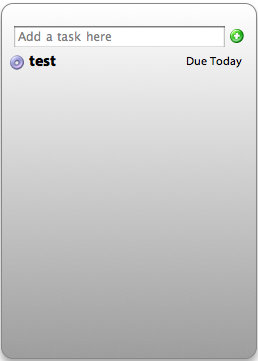
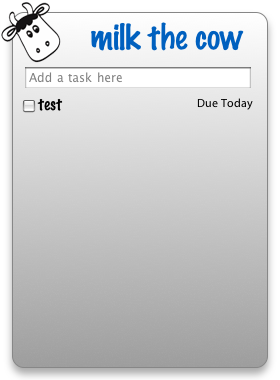
version 0.1 release

Changed region(s): [[0.0, 0.0, 1.0, 1.0], [0.6822, 0.2438, 0.8992, 0.3047]]

diff --git a/Milk the Cow.wdgt/milkthecow.js b/Milk the Cow.wdgt/milkthecow.js
@@ -51,9 +51,7 @@ function load()
 	//setup Apple buttons
 	new AppleGlassButton(document.getElementById("done"), "Done", showFront);
 	new AppleInfoButton(document.getElementById("info"), document.getElementById("front"), "white", "black", showBack);
-	new AppleButton(document.getElementById("auth_button"),"Authentication",20,"Images/button_left.png","Images/button_left_clicked.png",5,"Images/button_middle.png","Images/button_middle_clicked.png","Images/button_right.png","Images/button_right_clicked.png",5,OpenAuthUrl);
 	new AppleButton(document.getElementById("tasks_button"),"Refresh",20,"Images/button_left.png","Images/button_left_clicked.png",5,"Images/button_middle.png","Images/button_middle_clicked.png","Images/button_right.png","Images/button_right_clicked.png",5,printTasks);
-	new AppleButton(document.getElementById("add_button"),"Add \"test\"",20,"Images/button_left.png","Images/button_left_clicked.png",5,"Images/button_middle.png","Images/button_middle_clicked.png","Images/button_right.png","Images/button_right_clicked.png",5,rtmAddTest);
 	new AppleButton(document.getElementById("del_button"),"Delete Last",20,"Images/button_left.png","Images/button_left_clicked.png",5,"Images/button_middle.png","Images/button_middle_clicked.png","Images/button_right.png","Images/button_right_clicked.png",5,rtmDeleteLast);
 	
 	//startRefreshTimer();
@@ -105,6 +103,7 @@ function hide()
 function show()
 {
 	//startRefreshTimer();
+	printTasks();
 }
 
 //
@@ -227,10 +226,6 @@ function rtmAuthURL (perms) {
     return url;
 }
 
-function rtmAddTest(){
-    return rtmAdd("test");
-}
-
 //add task to rtm
 function rtmAdd (name){
 	var res = rtmCall({method:"rtm.tasks.add",name:name,parse:"1"}).rsp;
@@ -302,7 +297,15 @@ function createTimeline (){
 
 function printTasks (){
     tasks = [];
-    if (checkToken()){
+    if (!checkToken()){
+		//show auth link
+		$("#authDiv").show();
+		$("#listDiv").hide();
+		$("#authDiv").html("<span id=\"authurl\" onclick=\"widget.openURL('"+rtmAuthURL("delete")+"')\">Click Here</span> to authentication.");
+	}else{
+		//get task list
+		$("#authDiv").hide();
+		$("#listDiv").show();
 		var temptasks = rtmCall({method:"rtm.tasks.getList",filter:"status:incomplete"});
 		temptasks = temptasks.rsp.tasks;
 		if (typeof(temptasks.list.length)=="undefined"){
@@ -328,7 +331,7 @@ function printTasks (){
         var date = tasks[t].date.toString().split(" ");
         var sdate = "Due "+date[1]+" "+date[2];
         if (tasks[t].date.getTime()==2147483647000) sdate = ""; //no due date
-		$("#taskList").append("<li><a class=\"checkimg\" href=\"javascript:rtmComplete("+t+")\"></a>"+tasks[t].name+"<span class=\"duedate\">"+sdate+"</span></li>");
+		$("#taskList").append("<li><input type=\"checkbox\" onclick=\"rtmComplete("+t+")\"/>"+tasks[t].name+"<span class=\"duedate\">"+sdate+"</span></li>");
 	}
 	
 	if (lastTrans==null) $("#undo").hide();

diff --git a/Milk the Cow.wdgt/milkthecow.css b/Milk the Cow.wdgt/milkthecow.css
@@ -16,6 +16,33 @@ body {
 	background-repeat: no-repeat;
 }
 
+#me {
+	position: absolute;
+    text-align: center;
+    color: rgb(255, 255, 255);
+    font-family: HelveticaNeue-Bold;
+    text-shadow: rgb(25, 25, 25) 3px 3px 2px;
+    width: 150px;
+    font-size: 9pt;
+    height: 19px;
+    left: 64px;
+    top: 213px;
+}
+
+#email {
+    position: absolute;
+    text-align: center;
+    font-family: HelveticaNeue-Bold;
+    text-shadow: rgb(0, 0, 128) 2px 2px 2px;
+    cursor: pointer;
+    font-size: 9pt;
+    width: 125px;
+    color: rgb(51, 123, 255);
+    height: 17px;
+    left: 30px;
+    top: 233px;
+}
+
 #info {
     position: absolute;
     right: 15px;
@@ -32,22 +59,6 @@ body {
     margin-top: auto;
 }
 
-#auth_button {
-    /*font-family: HelveticaNeue-Bold;*/
-	font-family: "Myriad Pro";
-	font-weight: bold;
-    font-size: 12px;
-    text-align: center;
-    position: absolute;
-    right: auto;
-    margin-top: 0px;
-    width: 93px;
-    left: 50px;
-    top: 310px;
-    bottom: 77px;
-    height: auto;
-}
-
 #tasks_button {
 	font-family: "Myriad Pro";
 	font-weight: bold;
@@ -60,21 +71,6 @@ body {
     left: 50px;
     top: 340px;
     bottom: 22px;
-    height: auto;
-}
-
-#add_button {
-	font-family: "Myriad Pro";
-	font-weight: bold;
-    font-size: 12px;
-    text-align: center;
-    position: absolute;
-    right: auto;
-    margin-top: 0px;
-    width: 93px;
-    left: 150px;
-    top: 310px;
-    bottom: 77px;
     height: auto;
 }
 
@@ -99,6 +95,27 @@ body {
     top: 80px;
     text-align: left;
 	left: 20px;
+	display: block;
+}
+
+#authDiv {
+	font-family: "Myriad Pro";
+	font-weight: bold;
+	font-size: 14px;
+	position: absolute;
+	top: 97px;
+	text-align: left;
+	left: 30px;
+	display: none;
+}
+
+#authurl {
+	color: blue;
+	text-decoration: underline;
+}
+
+#authurl:hover {
+	cursor: pointer;
 }
 
 #taskList {
@@ -127,15 +144,6 @@ body {
 	clear: right;
 	font-size: 12px;
 	font-weight: normal;
-}
-
-a.checkimg {
-	padding-left: 20px;
-	background-image: url(Images/cd.png);
-	background-repeat: no-repeat;
-}
-a.checkimg:hover {
-	background-image: url(Images/accept.png);
 }
 
 #undo {
@@ -173,8 +181,4 @@ a.checkimg:hover {
 	position: absolute;
 	left: 90px;
 	top: 0px;
-}
-
-#cowimg {
-	
 }

diff --git a/Milk the Cow.wdgt/milkthecow.html b/Milk the Cow.wdgt/milkthecow.html
@@ -21,19 +21,22 @@
 			<img alt="loading" src="Images/ajax-loader.gif" />
 		</div>
 		<input id='taskinput' placeholder='Add a task here' onkeypress='inputKeyPress(event);'/>
+		<div id="authDiv">
+			<span id="authurl">Click Here</span> to authentication.
+		</div>
         <div id="listDiv">
             <ul id="taskList">
-				<li><a class="checkimg"></a>test<span class="duedate">Due Today</span></li>
+				<li><input type="checkbox" />test<span class="duedate">Due Today</span></li>
             </ul>
         </div>
-        <div id="auth_button"></div>
         <div id="tasks_button"></div>
-		<div id="add_button"></div>
 		<div id="del_button"></div>
 		<div><a id="undo" href="javascript:rtmUndo()"></a></div>
 		<div id="info"></div>
     </div>
     <div id="back">
+		<div id="me">RTM widget by Rich Hong</div>
+		<div id="email" onclick="widget.openURL('http://code.google.com/p/milkthecow/')">http://code.google.com/p/milkthecow/</div>
         <div id="done"></div>
     </div>
 </body>
